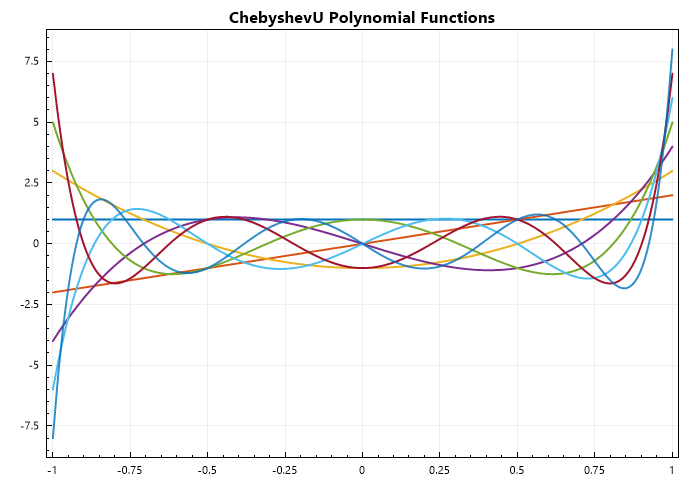
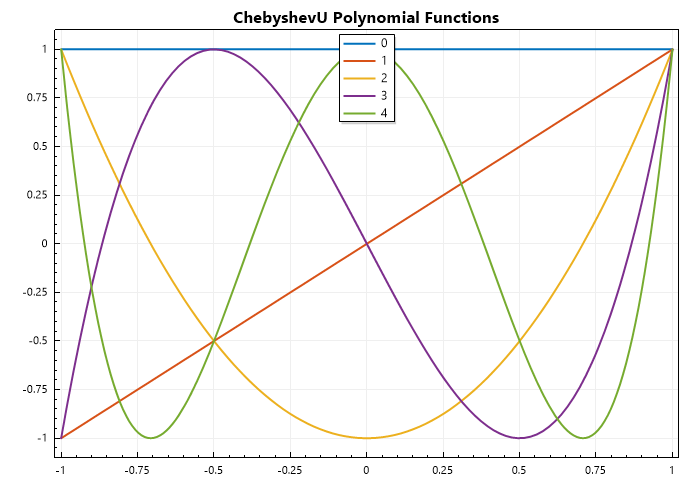
more update

diff --git a/docs/source/Special_Function.rst b/docs/source/Special_Function.rst
@@ -94,10 +94,11 @@ Output:
    using static CypherCrescent.MathematicsLibrary.Math;
 
    ColVec x = Linspace(-1, 1);
-   Indexer Z = new(0, 8);
-   Matrix U = Z.Select(z => ChebyshevT(z, x)).ToList();
-   Plot(x, U, Linewidth: 2);
+   Indexer Z = new(0, 5);
+   Matrix T = Z.Select(z => ChebyshevT(z, x)).ToList();
+   Plot(x, T, Linewidth: 2);
    Title("ChebyshevU Polynomial Functions");
+   Legend(Z.Select(z => z.ToString()), Alignment.UpperCenter);
    SaveAs("ChebyshevU-Polynomial-Functions.png");
 
 Output: 
